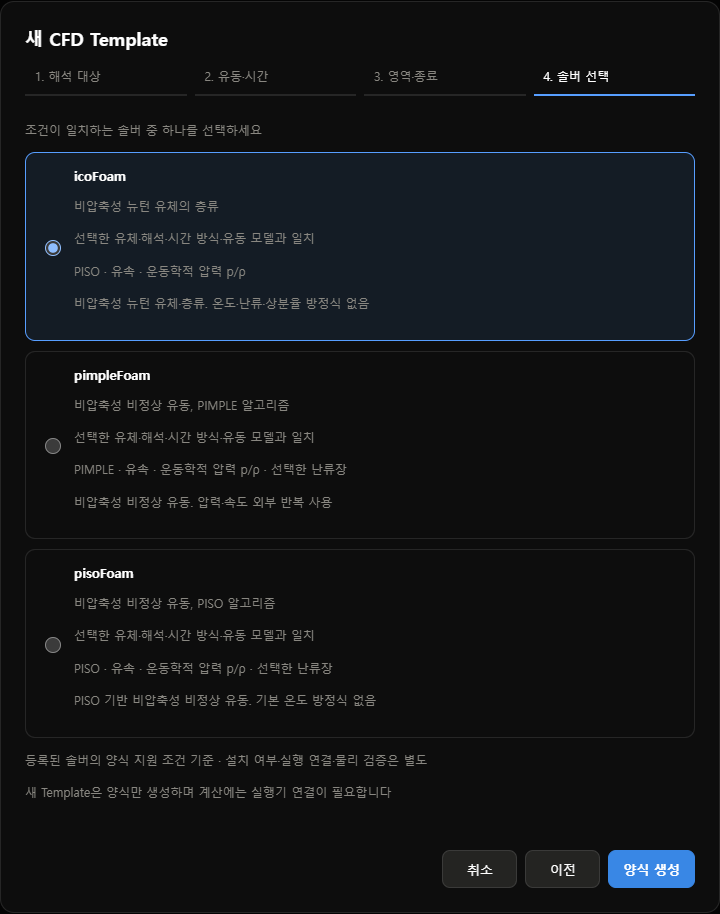
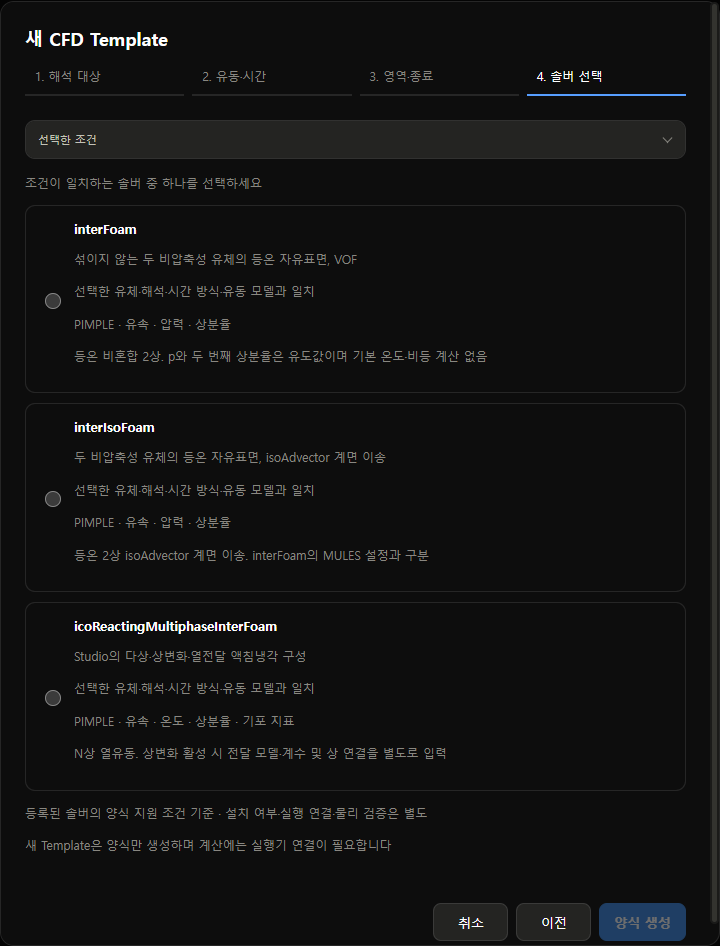
Fix solver survey compatibility and explain mismatched conditions

diff --git a/cfd_studio/internal/i18n_help.js b/cfd_studio/internal/i18n_help.js
@@ -8,7 +8,7 @@
  ['Solvers and inputs',[ 'Choose liquid, gas or multiple phases; supply material properties and initial/boundary conditions', 'Geometry and mesh define the calculation domain and spatial resolution', 'Numerical settings include discretization, linear solvers, coupling, time step and output interval', 'Required fields depend on the selected solver and models', 'Standard solvers include icoFoam, simpleFoam, pisoFoam, pimpleFoam, buoyantSimpleFoam, buoyantPimpleFoam, chtMultiRegionFoam, interFoam, interIsoFoam and rhoPimpleFoam', 'Studio also defines dedicated multiphase cooling and warehouse transport configurations', 'Installation check detects executable files; it does not install a solver or connect a new execution adapter', 'New generic Templates support project, Config and preset storage; running them requires a compatible execution adapter' ]],
  ['Results',[ '3D Virtual: stored fields, geometry and saved-time playback', 'Data Sheet: up to three overall means on the left and nearest-cell time series at specified coordinates on the right', 'Line, bar and scatter are display styles; changing style does not change result values', 'The mean is an arithmetic mean of valid stored cells, not a volume-weighted mean', 'Solver time step, output interval, playback speed and termination are independent', 'Execution status, numerical checks and visualization readiness are separate; 100% visualization readiness does not establish convergence or experimental validation' ]]],
  [['CFD',[ 'Open the CFD tab at the top', 'Find project: choose a CFD Studio project folder and select Add; folder structure and records are checked before registration', 'New project: enter name, folder and description; select a CFD Template and either Enter values or a Template preset', 'Enter Config: complete the blank fields, select Apply, then Save in the project dialog', 'Save as preset is off by default; enable it and enter a new name to save a separate preset', 'Manage project: edit name, description, default preset or folder; a default-preset change affects future Cases only', 'Changing the folder copies and verifies data before switching the connection; existing originals are preserved', '+CFD Case: enter a name, edit Config and termination, then Save Case', 'Select the Case → Add to queue → Start queue', 'Config differences and Solver log stay visible; long content scrolls inside each section' ]],
- ['CFD Template',[ 'CFD Template list → +; use Edit beside an existing Template', 'New project: select + beside CFD Template to create one alongside the project dialog. Project inputs are preserved. Saving selects the new Template; cancelling keeps the previous selection', 'Complete analysis target, flow/time and domain/termination questions before choosing a solver', 'None of these: shows unsupported questions and blocks recommendations and generation for the current registered solvers and forms; revise the answer or cancel', 'Recommend solvers: compare matching candidates and select one; no fields are generated until selection', 'Generate fields → enter name and description → Edit fields → Apply → Save Template', 'Edit questionnaire to revise conditions; Cancel preserves the existing structure. An existing Template keeps its solver; use a new Template for another solver. Enter physical values when creating a project', 'Download JSON / Import JSON in the Template editor uses definition files; project Config uses input-value JSON', 'Changing the display language does not change JSON keys, units or stored input values' ]],
+ ['CFD Template',[ 'CFD Template list → +; use Edit beside an existing Template', 'New project: select + beside CFD Template to create one alongside the project dialog. Project inputs are preserved. Saving selects the new Template; cancelling keeps the previous selection', 'Complete analysis target, flow/time and domain/termination questions before choosing a solver', 'None of these: shows unsupported questions and blocks recommendations and generation for the current registered solvers and forms; revise the answer or cancel', 'Recommend solvers: compare matching candidates and select one; no fields are generated until selection', 'Multiphase flow and heat-transfer intentions also match the supported multiphase templates. If no template matches, review the exact proposed changes and explicitly select Recommend with these conditions; answers are never changed automatically', 'Generate fields → enter name and description → Edit fields → Apply → Save Template', 'Edit questionnaire to revise conditions; Cancel preserves the existing structure. An existing Template keeps its solver; use a new Template for another solver. Enter physical values when creating a project', 'Download JSON / Import JSON in the Template editor uses definition files; project Config uses input-value JSON', 'Changing the display language does not change JSON keys, units or stored input values' ]],
  ['Spatial geometry',[ 'Config editor or Template field editor → Spatial JSON', 'Edit JSON on the left → Preview geometry → inspect the 3D geometry on the right', 'Drag to rotate, wheel to zoom, double-click to reset', 'Apply updates the parent draft; save in the parent editor. Cancel preserves the original', 'Template stores field definitions only; physical dimensions belong to Config', 'Boxes, spheres, cylinders and supported existing Config geometry are displayed; external CAD and mesh files are not loaded', 'Geometry preview does not generate a mesh or connect a solver' ]],
  ['Queue and recovery',[ 'Before execution: edit, reorder with ↑ / ↓, or remove pending Cases', 'Pause after current Case lets the current calculation finish and pauses the next', 'Failure stops the queue; inspect Failure details and recovery, then Retry or Skip and Start queue', 'Resume is available only when the adapter and complete restart data support it; the warehouse adapter currently does not support resume', 'Retry preserves previous records and starts a new attempt; completed calculations are not automatically rerun', 'After restarting Studio, records and queue are restored; inspect the queue before starting' ]],
  ['Termination',[ 'Choose physical time or saved frame count; state whether the initial 0 s frame is included', 'Frame count means completely saved result frames, not solver iterations', 'Convergence termination is disabled until the execution adapter supports sustained convergence checks', 'To reuse a started Case: View Config → New Case from this Config' ]],
@@ -26,7 +26,7 @@
  ['結果',[ '3D Virtual：保存された場・形状・時間変化を表示', 'Data Sheet：左側に最大3項目の全体平均、右側に指定座標の最近接セルの時系列を表示', '折れ線・棒・散布図は表示形式。形式を変更しても結果値は不変', '全体平均は有効な保存セルの算術平均であり、体積加重平均ではありません', 'ソルバー時間刻み・結果保存間隔・再生速度・終了条件は独立', '実行状態・数値検査・可視化準備率を別々に表示。準備率100%は収束・実験検証の完了を意味しません' ]]],
  [['CFD',[ '画面上部のCFDタブを選択', 'プロジェクトを探す：CFD Studioプロジェクトのフォルダーを選択して追加。構造と記録の検証後に登録', '新規プロジェクト：名前・フォルダー・説明を入力し、CFD Templateと直接入力またはプリセットを選択', 'Configを入力：空欄に値を記入 → Apply → プロジェクト画面で保存', 'プリセットに保存は既定でオフ。オンにして新しい名前を入力すると別のプリセットとして保存', 'プロジェクト管理：名前・説明・既定プリセット・保存先を変更。既定プリセット変更は今後のCaseにのみ適用', '保存先変更はコピー・検証後に接続先を切替。元のデータは保持', '+CFD Case：名前・Config・終了条件を入力してCaseを保存', 'Caseを選択 → キューに追加 → キューを開始', 'Configの差分とソルバーログは常時表示。長い内容は各領域内でスクロール' ]],
  ['空間情報',[ 'Config編集またはTemplate入力形式編集 → 空間 JSON', '左側でJSON編集 → 形状を確認 → 右側に3Dプレビュー', 'ドラッグで回転、ホイールで拡大縮小、ダブルクリックで初期化', '適用後、親の編集画面で保存。キャンセルで元の値を保持', 'Templateは入力形式のみ保存。実際の寸法はConfigで入力', '直方体・球・円柱と対応する既存Config形状を表示。外部CAD・メッシュファイルは未対応', '形状プレビューとメッシュ生成・ソルバー実行は別の機能' ]],
- ['CFD Template',[ 'CFD Template一覧 → +。既存項目は右側の編集を選択', '新規プロジェクトのCFD Template横の+で作成画面を右側に表示。プロジェクト入力は保持。保存すると新しいTemplateを選択し、キャンセルすると元の選択を保持', '解析対象・流動と時間・領域と終了条件の設問に回答してからソルバーを選択', 'ここにない：現在登録済みのソルバー・入力形式では対応できない項目を表示し、推薦・生成を停止。回答の変更またはキャンセルが可能', 'ソルバーを推薦：条件に適合する候補を比較して1つ選択。選択前には入力形式を生成しません', '入力形式を生成 → 名前・説明を入力 → 入力形式を編集 → Apply → Templateを保存', '設問を編集で条件変更。キャンセルすると既存形式を保持。既存Templateのソルバーは固定し、別のソルバーには新規Templateを使用。物理入力値はプロジェクト作成時に入力', 'Template画面のDownload JSON / Import JSONは定義ファイル、プロジェクトConfigでは入力値JSONを使用', '表示言語を変更してもJSONキー・単位・保存入力値は不変' ]],
+ ['CFD Template',[ 'CFD Template一覧 → +。既存項目は右側の編集を選択', '新規プロジェクトのCFD Template横の+で作成画面を右側に表示。プロジェクト入力は保持。保存すると新しいTemplateを選択し、キャンセルすると元の選択を保持', '解析対象・流動と時間・領域と終了条件の設問に回答してからソルバーを選択', 'ここにない：現在登録済みのソルバー・入力形式では対応できない項目を表示し、推薦・生成を停止。回答の変更またはキャンセルが可能', 'ソルバーを推薦：条件に適合する候補を比較して1つ選択。選択前には入力形式を生成しません', '多相の流動・熱伝達目的も対応する多相入力形式と照合。一致しない場合は変更前後の条件を確認し、この条件で再推薦を選択。回答は自動変更されません', '入力形式を生成 → 名前・説明を入力 → 入力形式を編集 → Apply → Templateを保存', '設問を編集で条件変更。キャンセルすると既存形式を保持。既存Templateのソルバーは固定し、別のソルバーには新規Templateを使用。物理入力値はプロジェクト作成時に入力', 'Template画面のDownload JSON / Import JSONは定義ファイル、プロジェクトConfigでは入力値JSONを使用', '表示言語を変更してもJSONキー・単位・保存入力値は不変' ]],
  ['キューと復旧',[ '開始前のCaseは編集・↑ / ↓で並べ替え・キューから除外が可能', '現在のCase完了後に一時停止：現在の計算を続け、次のCaseから停止', '失敗時はキュー停止。失敗理由と復旧を確認 → やり直す／スキップ → キューを開始', '再開には対応アダプターと完全な再開データが必要。倉庫アダプターは現在再開に未対応', 'やり直す：前の記録を保持して新しい試行を開始。完了済みの計算は自動再実行しません', 'Studio再起動後は記録・キューを復元。キューを確認してから開始' ]],
  ['終了条件',[ '指定物理時間または保存フレーム数を選択。0秒の初期フレームを含むかを確認', 'フレーム数は完全保存された結果の数であり、ソルバー反復回数とは別', '収束終了は一定期間の収束判定に対応する実行アダプター接続まで無効', '実行済み入力を再利用：Configを表示 → このConfigで新規Case' ]],
  ['結果と書き出し',[ '生成：結果を可視化用に準備。更新：新規結果を反映。開く：Viewerを表示', '結果フォルダー：原本の保存先を開く', 'CFDのCase詳細にある全CSV：表示中のグラフと無関係に全保存時系列・空間配列をZIPで書き出す', 'ZIPはtime_series.csv・fields/・manifest.jsonを含む。未保存の原本セルは復元不可' ]],

diff --git a/cfd_studio/internal/form_wizard.js b/cfd_studio/internal/form_wizard.js
@@ -3,7 +3,7 @@
     const el=(tag,text,cls)=>{const e=document.createElement(tag);if(text!=null)e.textContent=text;if(cls)e.className=cls;return e;};
   function ensureStyle(){
     if(!document.getElementById('formWizardStyle')){const style=el('style');style.id='formWizardStyle';style.textContent=`
-      .fw-dialog [hidden]{display:none!important}.fw-dialog{width:min(720px,94vw);max-height:90vh;overflow:auto;border:1px solid var(--line);border-radius:14px;padding:24px;background:var(--card,var(--page));color:var(--text)}.fw-dialog::backdrop{background:#000a}.fw-dialog h2{font-size:18px;margin:0 0 8px}.fw-meta{color:var(--muted);font-size:12px;margin-bottom:20px}.fw-progress{display:flex;gap:8px;margin:0 0 24px}.fw-progress span{flex:1;padding:10px;border-bottom:2px solid var(--line);font-size:12px;color:var(--muted)}.fw-progress [aria-current=step]{color:var(--text);border-color:var(--accent,#579eff)}.fw-question{border:0;padding:0;margin:0 0 22px}.fw-question legend{font-size:14px;font-weight:600;margin-bottom:12px}.fw-options{display:grid;grid-template-columns:repeat(2,minmax(0,1fr));gap:10px}.fw-choice{display:flex;align-items:center;gap:10px;padding:14px;border:1px solid var(--line);border-radius:10px;cursor:pointer;background:var(--page);font-size:13px}.fw-choice:has(input:checked){border-color:var(--accent,#579eff);background:color-mix(in srgb,var(--accent,#579eff) 10%,var(--page))}.fw-choice input{width:16px;height:16px;accent-color:var(--accent,#579eff)}.fw-actions{display:flex;justify-content:flex-end;gap:8px;margin-top:18px}.fw-error{color:var(--red,#f88);font-size:12px;min-height:18px}.fw-summary{display:grid;grid-template-columns:1fr 1fr;gap:8px;margin:16px 0}.fw-summary div{padding:12px;border:1px solid var(--line);border-radius:9px;font-size:13px}.fw-note{font-size:12px;color:var(--muted);line-height:1.7}.fw-unsupported{border:1px solid var(--red,#c77770);border-radius:10px;padding:14px;margin-top:14px}.fw-unsupported strong{color:var(--red,#ed9288)}.fw-unsupported ul{font-size:12px;padding-left:20px}.fw-dialog button{min-width:75px}@media(max-width:520px){.fw-options,.fw-summary{grid-template-columns:1fr}}
+      .fw-dialog [hidden]{display:none!important}.fw-dialog{width:min(720px,94vw);max-height:90vh;overflow:auto;border:1px solid var(--line);border-radius:14px;padding:24px;background:var(--card,var(--page));color:var(--text)}.fw-dialog::backdrop{background:#000a}.fw-dialog h2{font-size:18px;margin:0 0 8px}.fw-meta{color:var(--muted);font-size:12px;margin-bottom:20px}.fw-progress{display:flex;gap:8px;margin:0 0 24px}.fw-progress span{flex:1;padding:10px;border-bottom:2px solid var(--line);font-size:12px;color:var(--muted)}.fw-progress [aria-current=step]{color:var(--text);border-color:var(--accent,#579eff)}.fw-question{border:0;padding:0;margin:0 0 22px}.fw-question legend{font-size:14px;font-weight:600;margin-bottom:12px}.fw-options{display:grid;grid-template-columns:repeat(2,minmax(0,1fr));gap:10px}.fw-choice{display:flex;align-items:center;gap:10px;padding:14px;border:1px solid var(--line);border-radius:10px;cursor:pointer;background:var(--page);font-size:13px}.fw-choice:has(input:checked){border-color:var(--accent,#579eff);background:color-mix(in srgb,var(--accent,#579eff) 10%,var(--page))}.fw-choice input{width:16px;height:16px;accent-color:var(--accent,#579eff)}.fw-actions{display:flex;justify-content:flex-end;gap:8px;margin-top:18px}.fw-error{color:var(--red,#f88);font-size:12px;min-height:18px}.fw-summary{display:grid;grid-template-columns:1fr 1fr;gap:8px;margin:16px 0}.fw-summary div{padding:12px;border:1px solid var(--line);border-radius:9px;font-size:13px}.fw-note{font-size:12px;color:var(--muted);line-height:1.7}.fw-alternative{border:1px solid var(--line);border-radius:10px;padding:14px;margin:12px 0}.fw-alternative ul{font-size:12px;padding-left:18px;line-height:1.8}.fw-selection{margin:14px 0}.fw-selection dl{display:grid;grid-template-columns:90px 1fr;gap:7px;font-size:12px}.fw-selection dd{margin:0}.fw-unsupported{border:1px solid var(--red,#c77770);border-radius:10px;padding:14px;margin-top:14px}.fw-unsupported strong{color:var(--red,#ed9288)}.fw-unsupported ul{font-size:12px;padding-left:20px}.fw-dialog button{min-width:75px}@media(max-width:520px){.fw-options,.fw-summary{grid-template-columns:1fr}}
     `;document.head.append(style);}
   }
 
@@ -64,6 +64,18 @@
       }catch(e){if(d.isConnected)error.textContent=e.message;}
       finally{busy=false;if(d.isConnected)render();}
     },'pri');actions.append(cancel,back,next);d.append(title,progress,body,unsupported,error,actions);
+    const choiceLabel=(key,value)=>options[key]?.find(o=>o.value===value)?.label||value;
+    async function applyAlternative(item){
+      if(busy)return;busy=true;error.textContent='';next.disabled=true;back.disabled=true;
+      for(const control of body.querySelectorAll('button,input'))control.disabled=true;
+      try{
+        const snapshot={...item.answers},result=await loadRecommendations(snapshot);
+        if(!d.isConnected)return;
+        if(!result.candidates.some(c=>c.solver===item.solver))throw Error('변경한 조건으로 추천할 수 없습니다');
+        Object.assign(values,snapshot);summary=result;candidates=result.candidates.filter(x=>!fixedSolver||x.solver===fixedSolver);chosen='';selected='';render();
+      }catch(e){if(d.isConnected)error.textContent=e.message;}
+      finally{busy=false;if(d.isConnected)render();}
+    }
     function render(){
       progress.replaceChildren();for(const [i,s] of steps.entries()){const n=el('span',(i+1)+'. '+s[0]);if(i===step)n.setAttribute('aria-current','step');progress.append(n);}
       body.replaceChildren();back.hidden=step===0;back.disabled=busy;next.disabled=busy||(step===3&&!chosen);next.textContent=step===2?'솔버 추천':step===3?'양식 생성':'다음';
@@ -75,8 +87,20 @@
         }
         body.append(el('p','해석 조건을 먼저 선택하면 지원 솔버를 추천합니다','fw-note'));
       }else{
+        const selection=el('details',null,'fw-selection'),listing=el('dl');selection.open=!candidates.length;selection.append(el('summary','선택한 조건'),listing);
+        for(const [key,label] of Object.entries(fieldNames))listing.append(el('dt',label),el('dd',choiceLabel(key,values[key])));
+        body.append(selection);
         if(!candidates.length){body.append(el('p',fixedSolver?'기존 Template의 솔버와 조건이 맞지 않습니다 · 이전 단계에서 수정하거나 새 Template을 만드세요':summary.message,'fw-note'));}
         else body.append(el('p','조건이 일치하는 솔버 중 하나를 선택하세요','fw-note'));
+        if(!candidates.length){
+          const alternatives=(summary.alternatives||[]).filter(x=>!fixedSolver||x.solver===fixedSolver).slice(0,3);
+          if(alternatives.length){body.append(el('h3','조건 변경 후 사용 가능한 솔버'),el('p','아래 변경값을 확인하세요 · 버튼을 누르기 전에는 응답을 변경하지 않습니다','fw-note'));
+            for(const item of alternatives){const card=el('section',null,'fw-alternative'),list=el('ul');card.append(el('strong',item.solver),el('p',item.summary,'fw-note'));
+              for(const change of item.changes){const li=el('li');li.append(el('span',fieldNames[change.field]),': ',el('span',choiceLabel(change.field,change.from)),' → ',el('strong',choiceLabel(change.field,change.to)));list.append(li);}
+              const apply=button('이 조건으로 다시 추천',()=>applyAlternative(item));apply.disabled=busy;card.append(list,apply);body.append(card);
+            }
+          }
+        }
         for(const item of candidates){
           const label=el('label',null,'fw-choice fw-solver-choice'),radio=el('input'),content=el('div');label.style.marginBottom='10px';radio.type='radio';radio.name='recommended_solver';radio.value=item.solver;radio.checked=chosen===item.solver;radio.onchange=()=>{chosen=item.solver;selected=chosen;next.disabled=false;error.textContent='';};
           content.append(el('strong',item.solver),el('p',item.summary,'fw-note'),el('p',item.reason,'fw-note'),el('p',item.algorithm+' · '+item.outputs.join(' · '),'fw-note'),el('p',item.note,'fw-note'));

diff --git a/cfd_studio/internal/execution_workspace.js b/cfd_studio/internal/execution_workspace.js
@@ -225,7 +225,7 @@
       let solvers=catalogReply.solvers,installation=catalogReply.installation;
       let config=structuredClone(prepared?.result.config||existing?.blank_config||{}),schema=prepared?.result.config_schema|| (existing?.input_schema?structuredClone(existing.input_schema):CFDFormConfig.fromConfig({})),configured=!!(existing||prepared);
       const d=node('dialog');d.className='ew-dialog ew-form-dialog';
-      d.innerHTML='<form><h2></h2><label>CFD Template 이름<input name="name" required maxlength="80"></label><label>설명<textarea name="description" rows="2" maxlength="4000"></textarea></label><label>솔버<select name="solver"></select></label><section class="ew-solver-card" aria-label="솔버 기능"><div class="ew-solver-heading"><strong data-solver-title></strong><button type="button" class="btn" data-check>설치 확인</button></div><div data-install-result role="status" aria-live="polite"></div><p data-summary></p><p data-authors></p><div class="ew-solver-tags"></div><dl data-features></dl><p data-connection></p><p data-uses></p><details><summary>필수 Config</summary><ul data-required></ul></details><details><summary>선택·조건부 Config</summary><ul data-optional></ul></details><details><summary>계산 범위</summary><p data-inputs></p></details></section><div class="ew-form-config"><div><strong>Config 양식</strong><p data-config-count></p></div><div class="ew-bar"><button type="button" class="btn pri" data-wizard>양식 구성</button><button type="button" class="btn" data-config>양식 편집</button></div></div><p role="alert"></p><div class="ew-bar"><button type="button" class="btn" data-cancel>취소</button><button type="submit" class="btn pri">Template 저장</button></div></form>';
+      d.innerHTML='<form data-validation="submit"><h2></h2><label>CFD Template 이름<input name="name" required maxlength="80"></label><label>설명<textarea name="description" rows="2" maxlength="4000"></textarea></label><label>솔버<select name="solver"></select></label><section class="ew-solver-card" aria-label="솔버 기능"><div class="ew-solver-heading"><strong data-solver-title></strong><button type="button" class="btn" data-check>설치 확인</button></div><div data-install-result role="status" aria-live="polite"></div><p data-summary></p><p data-authors></p><div class="ew-solver-tags"></div><dl data-features></dl><p data-connection></p><p data-uses></p><details><summary>필수 Config</summary><ul data-required></ul></details><details><summary>선택·조건부 Config</summary><ul data-optional></ul></details><details><summary>계산 범위</summary><p data-inputs></p></details></section><div class="ew-form-config"><div><strong>Config 양식</strong><p data-config-count></p></div><div class="ew-bar"><button type="button" class="btn pri" data-wizard>양식 구성</button><button type="button" class="btn" data-config>양식 편집</button></div></div><p role="alert"></p><div class="ew-bar"><button type="button" class="btn" data-cancel>취소</button><button type="submit" class="btn pri">Template 저장</button></div></form>';
       const f=d.querySelector('form');f.querySelector('h2').textContent=existing?'CFD Template 수정':'양식 확인';
       for(const dedicated of [false,true]){const group=node('optgroup');group.label=dedicated?'Studio 연결 솔버':'OpenFOAM 솔버';for(const solver of solvers.filter(x=>x.dedicated===dedicated))group.append(new Option(solver.id,solver.id));f.elements.solver.append(group);}
       f.elements.name.value=existing?.name||'';f.elements.description.value=existing?.description||'';f.elements.solver.value=existing?.solver||prepared.solver;f.elements.solver.disabled=true;

diff --git a/tests/browser_solver_diagnostics.js b/tests/browser_solver_diagnostics.js
@@ -1,0 +1,33 @@
+// Review registry only; no save or CFD execution.
+async page=>{
+ const checks=[];const check=(v,m)=>{if(!v)throw Error(m);checks.push(m);};
+ await page.goto('http://127.0.0.1:18760');await page.setViewportSize({width:1440,height:1050});await page.evaluate(()=>CFDI18n.setLanguage('ko'));
+ const answers=async a=>{
+  await page.locator('#ewCreateForm').click();const d=page.locator('.fw-recommend-dialog');await d.waitFor();
+  for(const keys of [['medium','purpose'],['regime','time_mode'],['domain','mesh','termination']]){
+   for(const k of keys)await d.locator(`input[name=${k}][value=${a[k]}]`).check();
+   await d.getByRole('button',{name:keys[0]==='domain'?'솔버 추천':'다음',exact:true}).click();
+  }
+  await d.locator('.fw-selection').waitFor();return d;
+ };
+ let d=await answers({medium:'gas',purpose:'flow',regime:'laminar',time_mode:'steady',domain:'internal',mesh:'import',termination:'physical_time'});
+ check(await d.locator('input[name=recommended_solver]').count()===0,'incompatible conditions are not presented as supported');
+ const first=d.locator('.fw-alternative').first();check(await first.innerText().then(t=>t.includes('simpleFoam')&&t.includes('물리시간')&&t.includes('수렴 기준')),'exact blocking condition and proposed change are shown');
+ check(await d.locator('.fw-selection').innerText().then(t=>t.includes('물리시간')),'original answer is unchanged before confirmation');
+ await d.screenshot({path:'output/playwright/solver-mismatch.png'});
+ await first.getByRole('button',{name:'이 조건으로 다시 추천',exact:true}).click();await d.locator('input[name=recommended_solver][value=simpleFoam]').waitFor();
+ await d.locator('.fw-selection summary').click();
+ check(await d.locator('.fw-selection').innerText().then(t=>t.includes('수렴 기준')),'explicit acceptance updates the termination condition');
+ check(await d.getByRole('button',{name:'양식 생성',exact:true}).isDisabled(),'solver must still be explicitly selected');
+ await d.locator('input[value=simpleFoam]').check();await d.getByRole('button',{name:'양식 생성',exact:true}).click();await d.waitFor({state:'detached'});
+ await page.locator('.ew-form-dialog').getByRole('button',{name:'취소',exact:true}).click();await page.locator('.ew-form-dialog').waitFor({state:'detached'});
+ d=await answers({medium:'liquid_gas',purpose:'flow',regime:'RAS',time_mode:'transient',domain:'internal',mesh:'generate',termination:'physical_time'});
+ check(await d.locator('input[name=recommended_solver][value=interFoam]').count()===1,'multiphase general flow now recommends a VOF solver');
+ await d.screenshot({path:'output/playwright/solver-multiphase.png'});
+ await d.locator('input[value=interFoam]').check();await d.getByRole('button',{name:'양식 생성',exact:true}).click();await d.waitFor({state:'detached'});
+ const form=page.locator('.ew-form-dialog');await form.locator('[data-config]').click();await page.locator('.fc-dialog').getByRole('button',{name:'JSON',exact:true}).click();
+ const definition=JSON.parse(await page.locator('.fc-json').inputValue());
+ check(await page.evaluate(s=>{const c=CFDFormConfig.toConfig(s);return Object.keys(c.materials.fluids).length===2&&Object.hasOwn(c.initial_conditions.fields,'alpha.phase_1')},definition),'multiphase fields are retained for a general flow intention');
+ await page.locator('.fc-dialog').getByRole('button',{name:'Cancel',exact:true}).click();await form.getByRole('button',{name:'취소',exact:true}).click();
+ return {checks};
+}

diff --git a/tests/browser_solver_survey.js b/tests/browser_solver_survey.js
@@ -37,7 +37,7 @@ async page=>{
  const form=page.locator('dialog.ew-form-dialog');await form.waitFor();check(generated===1,'fields generated after selecting solver');check(await form.locator('[name=solver]').inputValue()==='icoFoam','selected solver carried into Template');check(await form.locator('[name=solver]').isDisabled(),'solver changes go through questionnaire');
  await form.locator('[name=name]').fill('Survey Template '+Date.now());const name=await form.locator('[name=name]').inputValue();await form.locator('[name=description]').fill('Survey selection test');
  await form.locator('[data-config]').click();check(await page.locator('.fc-dialog input[aria-label$=" Value"]').count()===0,'generated definition contains no physical value inputs');await page.locator('.fc-dialog').getByRole('button',{name:'Cancel',exact:true}).click();
- await form.locator('[data-wizard]').click();wizard=page.locator('.fw-recommend-dialog');await wizard.waitFor();await wizard.locator('input[name=purpose][value=interface]').check();await wizard.getByRole('button',{name:'다음',exact:true}).click();await wizard.getByRole('button',{name:'다음',exact:true}).click();await wizard.getByRole('button',{name:'솔버 추천',exact:true}).click();await wizard.getByText('선택한 조건에 맞는 등록 솔버가 없습니다 · 이전 단계에서 조건을 확인하세요',{exact:true}).waitFor();
+ await form.locator('[data-wizard]').click();wizard=page.locator('.fw-recommend-dialog');await wizard.waitFor();await wizard.locator('input[name=purpose][value=interface]').check();await wizard.getByRole('button',{name:'다음',exact:true}).click();await wizard.getByRole('button',{name:'다음',exact:true}).click();await wizard.getByRole('button',{name:'솔버 추천',exact:true}).click();await wizard.getByText('선택한 조건이 등록된 솔버 양식과 일치하지 않습니다',{exact:true}).waitFor();
  check(await wizard.locator('input[name=recommended_solver]').count()===0,'incompatible gas-only interface analysis has no recommendation');check(await wizard.getByRole('button',{name:'양식 생성',exact:true}).isDisabled(),'incompatible conditions cannot generate');await wizard.getByRole('button',{name:'취소',exact:true}).click();check(await form.locator('[name=solver]').inputValue()==='icoFoam','cancelling questionnaire preserves generated structure');check(await form.locator('[name=name]').inputValue()===name,'cancelling retains Template name');
  await form.getByRole('button',{name:'Template 저장',exact:true}).click();await form.waitFor({state:'detached'});const saved=(await api('/forms')).forms.find(x=>x.name===name);check(saved.config.analysis.choices.medium==='gas'&&saved.config.analysis.choices.purpose==='flow','saved conditions match successful generation');check(saved.config.initial_conditions.fields.p.value===null,'generated input values remain blank');
  await page.reload();await page.waitForSelector('#ewCreateForm');check((await api('/forms')).forms.some(x=>x.id===saved.id&&x.solver==='icoFoam'),'Template survives reload');const after=await api('/forms');check(before.forms.every(f=>JSON.stringify(after.forms.find(x=>x.id===f.id))===JSON.stringify(f)),'existing Templates unchanged');

diff --git a/cfd_studio/app.py b/cfd_studio/app.py
@@ -14,7 +14,7 @@ from http.server import BaseHTTPRequestHandler, ThreadingHTTPServer
 from pathlib import Path
 from urllib.parse import urlparse, parse_qs, unquote
 
-APP_VER   = "0.227"         # 화면 우상단·콘솔에 표시 — 업데이트 반영 확인용
+APP_VER   = "0.228"         # 화면 우상단·콘솔에 표시 — 업데이트 반영 확인용
 PROCESS_STARTED = time.time()
 HERE      = os.path.dirname(os.path.abspath(__file__))
 # The bundled isolated Python also needs the application and repository modules.
@@ -5357,7 +5357,7 @@ INDEX_HTML = r'''<!DOCTYPE html>
    <details><summary>기존 프로젝트 등록</summary><ul><li>CFD 화면 왼쪽 상단 <b>프로젝트 찾기</b> 클릭</li><li><b>찾기</b>로 프로젝트 폴더 선택 또는 전체 경로 입력 → <b>추가</b></li><li>프로젝트 파일·실행 목록 검증 후 왼쪽 목록에 등록. 이미 등록된 폴더는 해당 프로젝트 선택</li><li>검증 실패 시 안내 내용을 확인하고 올바른 폴더 선택. 가져온 대기열은 일시정지 상태로 복원</li></ul></details>
    <details><summary>프로젝트 생성</summary><ul><li>왼쪽 <b>프로젝트</b> 제목 아래 <b>새 프로젝트</b> 클릭</li><li><b>프로젝트 이름</b> 입력 → <b>프로젝트 폴더</b> 옆 <b>찾기</b>로 저장 폴더 지정</li><li><b>프로젝트 설명</b> 입력 → <b>CFD Template</b> 선택 → <b>직접 입력 → Config 입력</b> 또는 해당 Template의 프리셋 선택 → <b>저장</b></li><li><b>프리셋에 저장</b> 체크 시 새 이름으로 입력값 프리셋 저장 · 기본 해제</li><li>저장한 프로젝트는 왼쪽 목록에서 이름을 클릭해 선택</li></ul></details>
    <details><summary>프로젝트 정보 및 저장 폴더 변경</summary><ul><li>프로젝트 선택 → 화면 오른쪽 상단 <b>프로젝트 관리</b></li><li>이름·설명·폴더·기본 프리셋 수정 → <b>저장</b>. C·D 등 드라이브 선택 가능</li><li>기본 프리셋 변경은 이후 생성하는 Case에 적용</li><li>폴더 변경은 복사·검증 후 연결 전환. 원본 보존. 계산·결과 저장 중에는 변경 불가</li></ul></details>
-   <details><summary>공간 정보</summary><ul><li><b>Config 편집 / 양식 편집 → 공간 JSON</b></li><li>왼쪽에서 JSON 편집 → <b>형상 확인</b> → 오른쪽 3D 미리보기</li><li>드래그로 회전 · 휠로 확대·축소 · 더블클릭으로 초기화</li><li><b>적용</b> 후 상위 편집 화면에서 저장 · <b>취소</b> 시 원본 유지</li><li>Template에는 양식만 저장 · 실제 치수는 Config에 입력</li><li>직육면체·구·원기둥 및 지원되는 기존 Config 형상 표시 · 외부 CAD·격자 파일은 미지원</li><li>형상 미리보기와 격자 생성·솔버 실행은 별도</li></ul></details><details><summary>CFD Template 생성 및 편집</summary><ul><li>새 프로젝트의 <b>CFD Template</b> 선택란 옆 <b>+</b>로 생성 가능 · 프로젝트 입력 유지</li><li>Template 저장 후 자동 선택 · 취소하면 기존 선택 유지</li><li>왼쪽 <b>CFD Template 리스트 → +</b></li><li><b>해석 대상 → 유동·시간 → 영역·종료</b> 순서로 설문 작성 → <b>솔버 추천</b></li><li><b>여기에 없음</b>: 지원하지 않는 항목 안내 후 추천·생성 중지 · 선택 수정 또는 취소 가능 · 현재 등록된 솔버·양식 기준</li><li>후보의 기능·출력·제한 확인 → 솔버 선택 → <b>양식 생성</b></li><li>맞는 후보가 없으면 <b>이전</b>으로 조건 확인 · 추천은 양식 지원 조건 기준이며 설치·실행 연결과 별도</li><li><b>양식 확인</b>에서 이름·설명 입력 → <b>양식 편집</b>에서 Key·Type·Unit 확인 → <b>Apply → Template 저장</b></li><li><b>설문 수정</b>으로 재구성 · 취소하면 기존 양식 유지 · 물성·치수·초기값은 프로젝트 생성 시 입력</li><li>기존 Template의 솔버는 고정 · 다른 솔버는 새 Template 생성</li><li><b>Download JSON / Import JSON</b>: Template 정의 파일 · 실제 입력값 JSON은 프로젝트의 <b>Config 입력</b>에서 관리</li><li><b>설치 확인</b>: 실행 파일 유무 확인 · 신규 Template 계산은 실행기 연결 필요</li></ul></details>
+   <details><summary>공간 정보</summary><ul><li><b>Config 편집 / 양식 편집 → 공간 JSON</b></li><li>왼쪽에서 JSON 편집 → <b>형상 확인</b> → 오른쪽 3D 미리보기</li><li>드래그로 회전 · 휠로 확대·축소 · 더블클릭으로 초기화</li><li><b>적용</b> 후 상위 편집 화면에서 저장 · <b>취소</b> 시 원본 유지</li><li>Template에는 양식만 저장 · 실제 치수는 Config에 입력</li><li>직육면체·구·원기둥 및 지원되는 기존 Config 형상 표시 · 외부 CAD·격자 파일은 미지원</li><li>형상 미리보기와 격자 생성·솔버 실행은 별도</li></ul></details><details><summary>CFD Template 생성 및 편집</summary><ul><li>새 프로젝트의 <b>CFD Template</b> 선택란 옆 <b>+</b>로 생성 가능 · 프로젝트 입력 유지</li><li>Template 저장 후 자동 선택 · 취소하면 기존 선택 유지</li><li>왼쪽 <b>CFD Template 리스트 → +</b></li><li><b>해석 대상 → 유동·시간 → 영역·종료</b> 순서로 설문 작성 → <b>솔버 추천</b></li><li><b>여기에 없음</b>: 지원하지 않는 항목 안내 후 추천·생성 중지 · 선택 수정 또는 취소 가능 · 현재 등록된 솔버·양식 기준</li><li>후보의 기능·출력·제한 확인 → 솔버 선택 → <b>양식 생성</b></li><li>후보가 없으면 <b>선택한 조건</b>과 후보별 변경값 확인 → 목적에 맞는 경우 <b>이 조건으로 다시 추천</b> · 버튼을 누르기 전에는 응답 유지</li><li>다상 유체의 일반 유동·열전달 목적도 지원 솔버와 연결 · 추천과 설치·실행 연결은 별도</li><li><b>양식 확인</b>에서 이름·설명 입력 → <b>양식 편집</b>에서 Key·Type·Unit 확인 → <b>Apply → Template 저장</b></li><li><b>설문 수정</b>으로 재구성 · 취소하면 기존 양식 유지 · 물성·치수·초기값은 프로젝트 생성 시 입력</li><li>기존 Template의 솔버는 고정 · 다른 솔버는 새 Template 생성</li><li><b>Download JSON / Import JSON</b>: Template 정의 파일 · 실제 입력값 JSON은 프로젝트의 <b>Config 입력</b>에서 관리</li><li><b>설치 확인</b>: 실행 파일 유무 확인 · 신규 Template 계산은 실행기 연결 필요</li></ul></details>
    <details><summary>CFD Case 생성 및 Config 입력</summary><ul><li>프로젝트 선택 → 화면 오른쪽 상단 파란 <b>+CFD Case</b></li><li><b>Case 이름</b> 입력 → 왼쪽 Config 항목 선택 → 오른쪽 값 입력</li><li>숫자 입력란은 문자 입력·붙여넣기를 차단. 정수 입력란은 소수도 차단. 빈 필수값·미완성 숫자·잘못된 JSON은 수정 후 저장</li><li><b>종료 조건·목표</b>에서 <b>특정 물리시간</b> 또는 <b>저장 프레임 수</b> 선택 → 목표값 입력</li><li>프레임 수 선택 시 <b>0초 초기 프레임 포함</b> 여부 확인. <b>수렴 기준</b>은 현재 선택 불가</li><li>창 하단 파란 <b>실행 저장</b> → 실행 목록에 Case 추가. 계산 시작은 대기열에서 진행</li></ul></details>
    <details><summary>프리셋 저장 및 불러오기</summary><ul><li>Case의 Config 편집창 상단 <b>프리셋에 저장</b> 체크박스</li><li>체크 해제: 해당 Case에만 저장. 체크: 새 프리셋 이름 입력 → <b>실행 저장</b> 시 별도 프리셋 저장</li><li>기존 값 사용: <b>프리셋 불러오기</b>에서 선택 → <b>불러오기</b></li></ul></details>
    <details><summary>대기열 구성 및 CFD 실행</summary><ul><li>가운데 <b>실행 목록</b>에서 Case 선택 → 오른쪽 <b>대기열에 추가</b></li><li>아래 <b>대기열</b> 영역의 파란 <b>대기열 시작</b> → <b>계산 중</b> 상태 확인</li><li>여러 Case는 각각 추가. 대기열 행의 <b>↑ / ↓</b>로 순서 변경, <b>제외</b>로 대기열에서 제거</li><li><b>다음 실행부터 일시정지</b>: 현재 Case 계산 유지. <b>실행 중단</b>: 선택한 실행 중 Case 중단</li><li>진행 내용: 오른쪽 <b>솔버 로그</b>에서 확인 · 항상 표시</li><li>실패: 원인 확인 → <b>실패 사유 및 복구</b> → <b>다시하기 / 이어하기 / 건너뛰기</b> → <b>대기열 시작</b>. 앱 재시작 후에도 대기열을 확인하고 시작</li><li><b>다시하기</b>: 기존 기록을 보존하고 처음부터 계산. Config 검증 실패 시 입력 수정 필요</li><li><b>이어하기</b>: 확인된 재시작 저장 지점부터 계산. 재시작 데이터가 없거나 실행기가 지원하지 않으면 사유 표시. 저장고 실행기는 현재 재개 미지원</li></ul></details>

diff --git a/cfd_studio/internal/form_wizard.py b/cfd_studio/internal/form_wizard.py
@@ -24,12 +24,16 @@ def profile(solver):
     if purpose=='thermal_multiphase':media.append('liquid_liquid_gas')
     if solver=='warehouseBuoyantFoam':media=['gas']
     steady=item['time_mode']=='정상'
-    options={'medium':media,'purpose':[purpose], 'regime':['laminar'] if solver=='icoFoam' else ['laminar','RAS','LES'],
+    # General survey intentions may use a specialized solver. Its full physics
+    # still determines the generated inputs (e.g. phase fractions for VOF).
+    supported_purposes={'interface':['interface','flow'],
+                        'thermal_multiphase':['thermal_multiphase','heat_flow','flow','interface']}.get(purpose,[purpose])
+    options={'medium':media,'purpose':supported_purposes, 'regime':['laminar'] if solver=='icoFoam' else ['laminar','RAS','LES'],
              'domain':['internal','external'], 'mesh':['import','generate'],
              'termination':['convergence'] if steady else ['physical_time','convergence','frames']}
     # A stationary mean-flow template does not offer time-resolved LES.
     if steady:options['regime']=['laminar','RAS']
-    return {'solver':solver,'time_mode':'steady' if steady else 'transient',
+    return {'solver':solver,'physics_purpose':purpose,'time_mode':'steady' if steady else 'transient',
             'options':{k:[{'value':v,'label':LABELS[k][v]} for v in values] for k,values in options.items()},
             'note':item['limitation'] or item['summary'], 'requirements': input_definition(solver)}
 
@@ -44,7 +48,7 @@ def generate(solver,answers):
     if not isinstance(answers,dict) or set(answers)!=set(p['options']):raise ValueError('모든 양식 질문에 답해 주세요')
     for key,options in p['options'].items():
         if answers[key] not in [o['value'] for o in options]:raise ValueError('선택한 솔버에서 지원하지 않는 항목: '+key)
-    a=copy.deepcopy(answers);purpose=a['purpose'];steady=p['time_mode']=='steady'
+    a=copy.deepcopy(answers);purpose=p['physics_purpose'];steady=p['time_mode']=='steady'
     thermal=purpose in ('heat_flow','conjugate_heat','compressible_flow','thermal_multiphase','thermal_scalar')
     multi=purpose in ('interface','thermal_multiphase')
     buoyant=purpose in ('heat_flow','conjugate_heat','thermal_scalar')
@@ -142,21 +146,36 @@ def recommend(answers):
     missing=[k for k in options if answers[k]=='not_listed']
     if missing:
         return {'answers':copy.deepcopy(answers),'candidates':[],'status':'unsupported',
-                'unsupported_fields':missing,
+                'unsupported_fields':missing,'alternatives':[],
                 'message':'지원 불가 · 여기에 없음으로 선택한 조건은 현재 등록된 솔버·양식에서 지원하지 않습니다',
                 'basis':'해당 조건을 지원하는 솔버·입력 양식의 추가 정의가 필요합니다'}
     candidates=[]
+    alternatives=[]
+    weights={'medium':4,'purpose':4,'regime':2,'time_mode':2,'termination':1}
     for p in profiles():
-        if p['time_mode']!=answers['time_mode']:continue
-        if any(answers[k] not in [o['value'] for o in choices] for k,choices in p['options'].items()):continue
+        allowed={k:[o['value'] for o in choices] for k,choices in p['options'].items()}
+        allowed['time_mode']=[p['time_mode']]
+        changes=[]
+        adjusted=copy.deepcopy(answers)
+        for key,values in allowed.items():
+            if answers[key] not in values:
+                adjusted[key]=values[0]
+                changes.append({'field':key,'from':answers[key],'to':values[0]})
         item=definition(p['solver'])
-        candidates.append({'solver':p['solver'],'summary':item['summary'],'note':p['requirements']['limit'],
-                           'upstream':item['upstream'], 'outputs':item['outputs'],
-                           'algorithm':p['requirements']['algorithm'],
-                           'dedicated':item['dedicated'],
-                           'reason':'선택한 유체·해석·시간 방식·유동 모델과 일치'})
-    return {'answers':copy.deepcopy(answers),'candidates':candidates,'status':'supported' if candidates else 'unsupported','unsupported_fields':[],
-            'message':'' if candidates else '선택한 조건에 맞는 등록 솔버가 없습니다 · 이전 단계에서 조건을 확인하세요',
+        candidate={'solver':p['solver'],'summary':item['summary'],'note':p['requirements']['limit'],
+                   'upstream':item['upstream'], 'outputs':item['outputs'],
+                   'algorithm':p['requirements']['algorithm'],
+                   'dedicated':item['dedicated'],
+                   'reason':'선택한 유체·해석·시간 방식·유동 모델과 일치'}
+        if changes:
+            alternatives.append({**candidate,'changes':changes,'answers':adjusted,
+                                 'score':sum(weights.get(c['field'],1) for c in changes)})
+        else:
+            candidates.append(candidate)
+    alternatives.sort(key=lambda a:(a['score'],len(a['changes'])))
+    return {'answers':copy.deepcopy(answers),'candidates':candidates,'alternatives':alternatives,
+            'status':'supported' if candidates else 'unsupported','unsupported_fields':[],
+            'message':'' if candidates else '선택한 조건이 등록된 솔버 양식과 일치하지 않습니다',
             'basis':'등록된 솔버의 양식 지원 조건 기준 · 설치 여부·실행 연결·물리 검증은 별도'}
 
 

diff --git a/tests/test_solver_recommendations.py b/tests/test_solver_recommendations.py
@@ -18,7 +18,7 @@ class SolverRecommendationTests(unittest.TestCase):
 
     def test_thermal_multiphase_and_incompatible_combinations(self):
         for a,expected in [(base(purpose='heat_flow'),['buoyantPimpleFoam']),
-                           (base(purpose='interface',medium='liquid_gas'),['interFoam','interIsoFoam']),
+                           (base(purpose='interface',medium='liquid_gas'),['interFoam','interIsoFoam','icoReactingMultiphaseInterFoam']),
                            (base(purpose='conjugate_heat'),['chtMultiRegionFoam']),
                            (base(purpose='interface',medium='gas'),[])]:
             self.assertEqual([c['solver'] for c in recommend(a)['candidates']],expected)
@@ -67,3 +67,30 @@ class SolverRecommendationTests(unittest.TestCase):
 
         h.path='/api/executions/form-recommend';post_route(h,None,{'answers':base(mesh='not_listed')});self.assertEqual(h.code,200);self.assertEqual(h.value['result']['status'],'unsupported')
         h.path='/api/executions/form-from-survey';post_route(h,None,{'answers':base(mesh='not_listed'),'solver':'icoFoam'});self.assertEqual(h.code,400)
+
+    def test_general_multiphase_intentions_keep_solver_physics(self):
+        a=base(medium='liquid_gas',purpose='flow')
+        self.assertEqual([c['solver'] for c in recommend(a)['candidates']],['interFoam','interIsoFoam','icoReactingMultiphaseInterFoam'])
+        config=generate_from_survey('interFoam',a)['config']
+        self.assertEqual(config['analysis']['choices']['purpose'],'flow')
+        self.assertEqual(len(config['materials']['fluids']),2)
+        self.assertIn('alpha.phase_1',config['outputs']['fields'])
+        self.assertIn('interfaces',config['physics'])
+        thermal=base(medium='liquid_liquid_gas',purpose='heat_flow')
+        self.assertEqual([c['solver'] for c in recommend(thermal)['candidates']],['icoReactingMultiphaseInterFoam'])
+        config=generate_from_survey('icoReactingMultiphaseInterFoam',thermal)['config']
+        self.assertEqual(len(config['materials']['fluids']),3)
+        self.assertIn('T',config['outputs']['fields'])
+        self.assertIn('phase_transfer',config['physics'])
+
+    def test_mismatches_are_explicit_and_only_proposals_are_changed(self):
+        a=base(time_mode='steady');before=copy.deepcopy(a);r=recommend(a)
+        self.assertEqual(r['candidates'],[])
+        best=r['alternatives'][0]
+        self.assertEqual(best['solver'],'simpleFoam')
+        self.assertEqual(best['changes'],[{'field':'termination','from':'physical_time','to':'convergence'}])
+        self.assertEqual(a,before)
+        with self.assertRaises(ValueError):generate_from_survey('simpleFoam',a)
+        for item in r['alternatives']:
+            self.assertIn(item['solver'],[c['solver'] for c in recommend(item['answers'])['candidates']])
+        self.assertEqual(recommend(base(medium='not_listed'))['alternatives'],[])

diff --git a/docs/CFD-STUDIO-MANUAL.md b/docs/CFD-STUDIO-MANUAL.md
@@ -2,7 +2,7 @@
 
 - 대상: CFD Studio 사용자
 - 내용: Template·Config·저장 구조·결과 표시·지원 범위
-- 사용법과 화면 명칭 기준: 0.227
+- 사용법과 화면 명칭 기준: 0.228
 - 정식 출시 전: 0.x · 정식 출시: 1.0부터 시작
 - 화면 조작: [사용법](CFD-STUDIO-USER-GUIDE.md)
 
@@ -389,3 +389,23 @@
 - 프로젝트 관리에서는 해석 Template을 변경할 수 없어 **+**를 표시하지 않음
 - Viewer: 왼쪽 3D Virtual, 오른쪽 Data Sheet · 현재 모드의 테두리가 좌우로 이동
 - 운영체제의 동작 줄이기 설정을 사용하는 경우 이동 애니메이션 비활성
+
+
+## 솔버 추천 조건
+
+- 설문 목적과 솔버의 전체 물리 모델을 분리해 판단
+- 다상 유동에서 **유동**을 선택해도 지원되는 계면 추적 솔버 추천
+- 다상 유체의 **열·부력 유동**은 지원되는 다상 열전달 양식과 연결
+- 일반적인 유동 목적을 선택해도 다상 솔버에 필요한 상분율·계면 입력은 유지
+- 온도 계산이 포함된 솔버를 선택하면 열물성·온도 입력도 유지
+- 등록 양식과 조건이 다르면 후보별 변경 필요 항목과 변경 전·후 값을 표시
+- **이 조건으로 다시 추천**을 누른 경우에만 응답 수정 · 수정 후 솔버 선택은 별도
+- 정상 해석 + 물리시간 종료 등 등록 양식에서 지원하지 않는 조합은 자동으로 승인하지 않음
+- **여기에 없음**은 지원 불가 유지 · 임의 대체 조건을 제시하지 않음
+- 후보 추천은 등록 양식 지원 기준 · 설치·실행 연결·계산 검증은 별도
+
+### 지원 범위 근거
+
+- [OpenFOAM interFoam 설명](https://doc.openfoam.com/2312/tools/processing/solvers/rtm/multiphase/interFoam/): 비압축성·등온·비혼화성 2상 유동
+- [OpenFOAM 다상 열전달 솔버 설명](https://www.openfoam.com/news/main-news/openfoam-v1806/solver-and-physics): icoReactingMultiphaseInterFoam의 다상 유동 및 상간 열·물질 전달
+- 위 지원 범위를 바탕으로 Studio 설문의 일반 목적과 기존 솔버 양식을 연결 · 새로운 솔버 실행 기능이 추가되는 것은 아님

diff --git a/docs/CFD-STUDIO-USER-GUIDE.md b/docs/CFD-STUDIO-USER-GUIDE.md
@@ -85,7 +85,10 @@
 - **영역·종료**: 내부·외부 영역, 격자 준비 방식, 종료 조건 선택 → **솔버 추천**
 - 추천 목록에서 기능·출력·제한 확인 → 솔버 하나 선택 → **양식 생성**
 - **여기에 없음**: 해당 조건을 지원하는 등록 솔버·양식이 없음을 표시 · 지원하지 않는 항목 안내 후 추천·생성 중지 · 선택 수정 또는 취소 가능
-- 맞는 솔버가 없으면 **이전**으로 돌아가 조건 확인
+- 맞는 솔버가 없으면 **선택한 조건**과 후보별 변경 필요 항목 확인
+- 변경값이 해석 목적에 맞으면 **이 조건으로 다시 추천** → 솔버 선택
+- 버튼을 누르기 전에는 기존 응답 유지 · 조건을 유지하려면 **이전** 또는 **취소**
+- 액체+기체 등의 **유동**·**열·부력 유동**도 지원되는 다상 솔버에 연결
 - **양식 확인** 화면에서 이름·설명 입력
 - **양식 편집**에서 Key·Type·Unit 확인 → **Apply → Template 저장**
 - 조건 변경: **설문 수정** → 재선택 → **양식 생성** · 취소하면 기존 양식 유지
